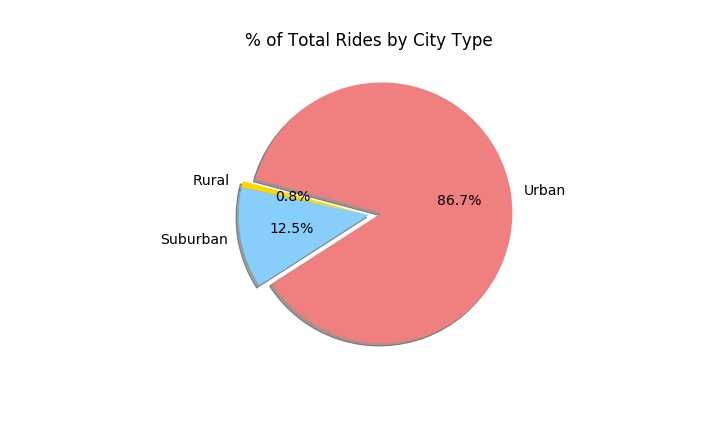
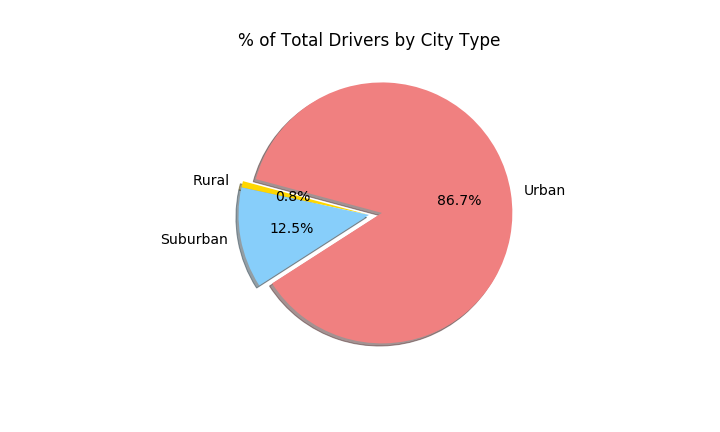
Updated plot titles, added image of summary df, updated README

Changed region(s): [[0.3361, 0.0602, 0.7028, 0.1204]]

diff --git a/README.md b/README.md
@@ -1,1 +1,56 @@
 # PyBer_Analysis
+## Project Overview
+The following analysis looks at PyBer's ride-sharing app data. For this analysis, the data was grouped according to city type (urban, suburban, and rural).
+
+The following is the list of data visualizations that were delivered for the analysis of the PyBer ride-share app data:
+* Bubble chart for all city types' ride-share data
+* Box and whisker plots showing all city types for:
+    * Ride count
+    * Ride fare
+    * Driver count
+* Pie charts representing each city type's percentage of:
+    * Total fares
+    * Total rides
+    * Total drivers
+
+To further enhance the analysis, a summary-level data frame was created to show the following for each city type:
+* Total rides
+* Total drivers
+* Total fares
+* Average fare per ride
+* Average fare per driver
+
+Finally, a multiple-line plot for the sum of the fares for each city type was created.
+
+
+## Resources
+Data Source: city_data.csv, ride_data.csv Software: Python 3.7.6, Jupyter Lab 1.2.6 Libraries: Pandas, NumPy, Matplotlib, SciPy
+
+## Analysis
+### PyBer ride-share data for all city types (bubble chart)
+![](https://github.com/karenbennis/PyBer_Analysis/blob/master/analysis/Fig1.png)
+
+### PyBer ride count data for all city types (box and whisker)
+![](https://github.com/karenbennis/PyBer_Analysis/blob/master/analysis/Fig2.png)
+
+### PyBer ride fare data for all city types (box and whisker)
+![](https://github.com/karenbennis/PyBer_Analysis/blob/master/analysis/Fig3.png)
+
+### PyBer driver count data for all city types (box and whisker)
+![](https://github.com/karenbennis/PyBer_Analysis/blob/master/analysis/Fig4.png)
+
+### PyBer percentage of total fares data by city type (pie)
+![](https://github.com/karenbennis/PyBer_Analysis/blob/master/analysis/Fig5.png)
+
+### PyBer percentage of total rides data by city type (pie)
+![](https://github.com/karenbennis/PyBer_Analysis/blob/master/analysis/Fig6.png)
+
+### PyBer percentage of total drivers data by city type (pie)
+![](https://github.com/karenbennis/PyBer_Analysis/blob/master/analysis/Fig7.png)
+
+## Further analysis (Challenge)
+### PyBer Summary DataFrame
+![](https://github.com/karenbennis/PyBer_Analysis/blob/master/analysis/DF1.png)
+
+### Multiple-line plot for the Sum of the Fares for Each City Type
+![](https://github.com/karenbennis/PyBer_Analysis/blob/master/analysis/Fig8.png)

diff --git a/.ipynb_checkpoints/README-checkpoint.md b/.ipynb_checkpoints/README-checkpoint.md
@@ -1,0 +1,1 @@
+# PyBer_Analysis
